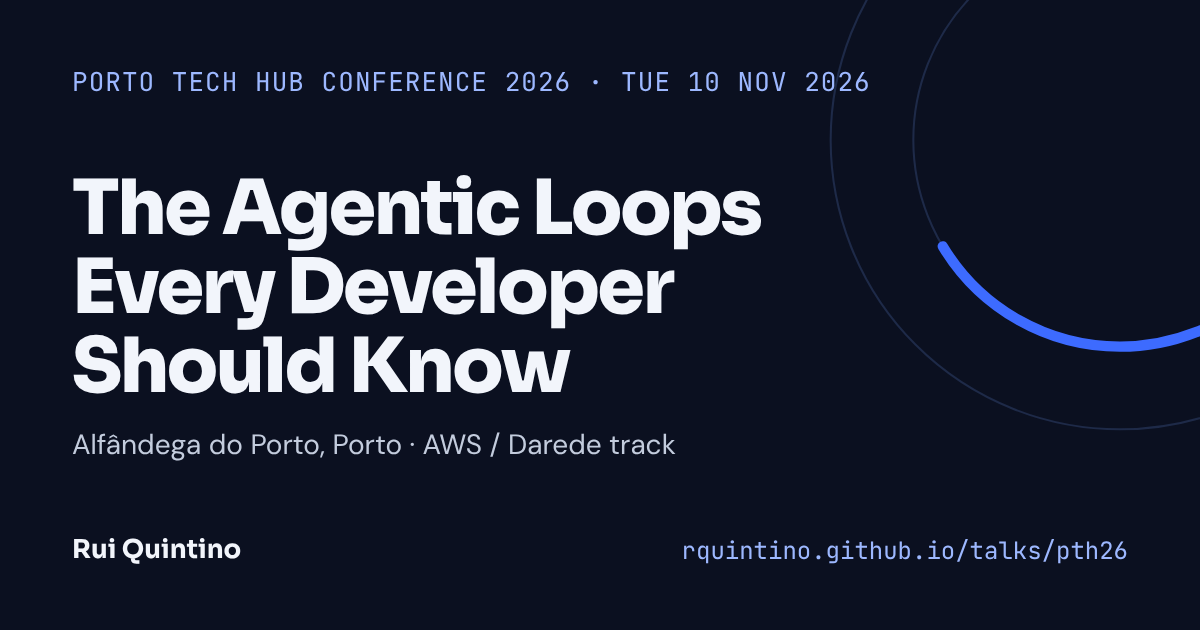
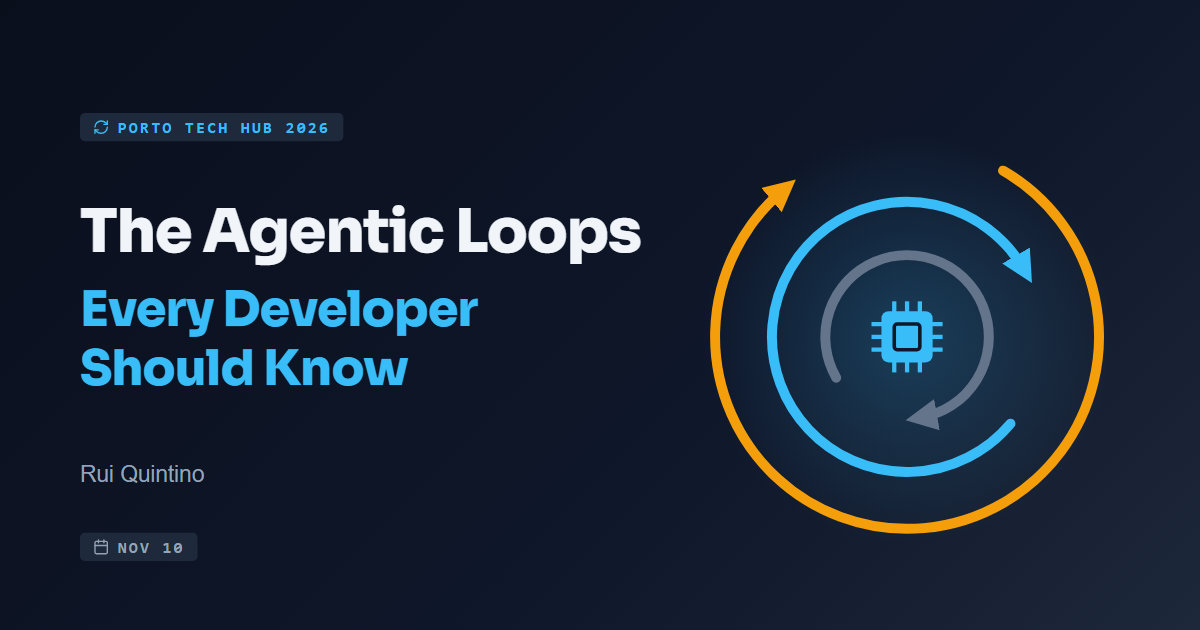
Use the pth26 cover slide as its English social preview
Add an ogCover flag so --og keeps a committed cover instead of
re-rendering the generated card. The PNG is re-encoded from pixels only.

diff --git a/CLAUDE.md b/CLAUDE.md
@@ -160,7 +160,9 @@ exceptions for "popular", "official", "tiny" or "just for dev".
   Pages deploy, which purges the CDN. Measured Nov 2026: 21–26s from push to
   the edge, so about 45s worst case on attendees' screens with 15s polling.
 - Build: `node tools/build.mjs` (add `--og` to re-render the 1200×630 social
-  cards with a local Chrome; set `CHROME_PATH` if needed). The script uses only
+  cards with a local Chrome; set `CHROME_PATH` if needed; a talk with
+  `"ogCover": true` keeps its committed cover slide as the English
+  `og/<id>.png`, metadata stripped). The script uses only
   `node:*` modules. Commit its output (`index.html`, `<id>/index.html`,
   `<id>/talk.ics`, `404.html`, `sitemap.xml`, `og/*.png`).
 - Front end: `assets/site.css`, `assets/site.js` (search, filters, sort,
